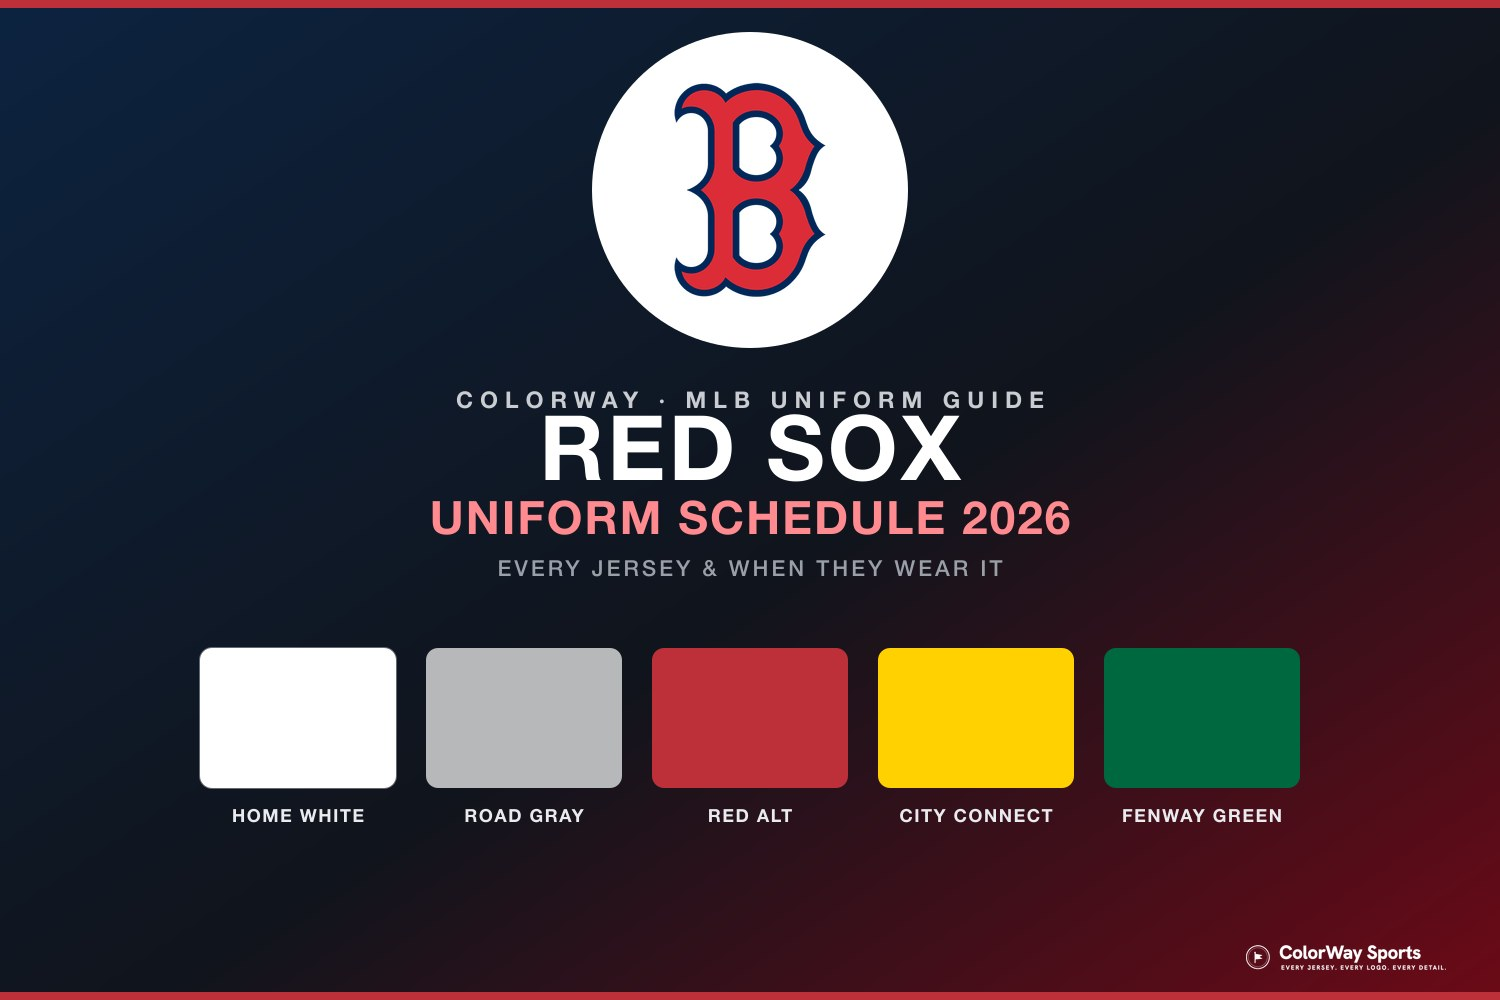
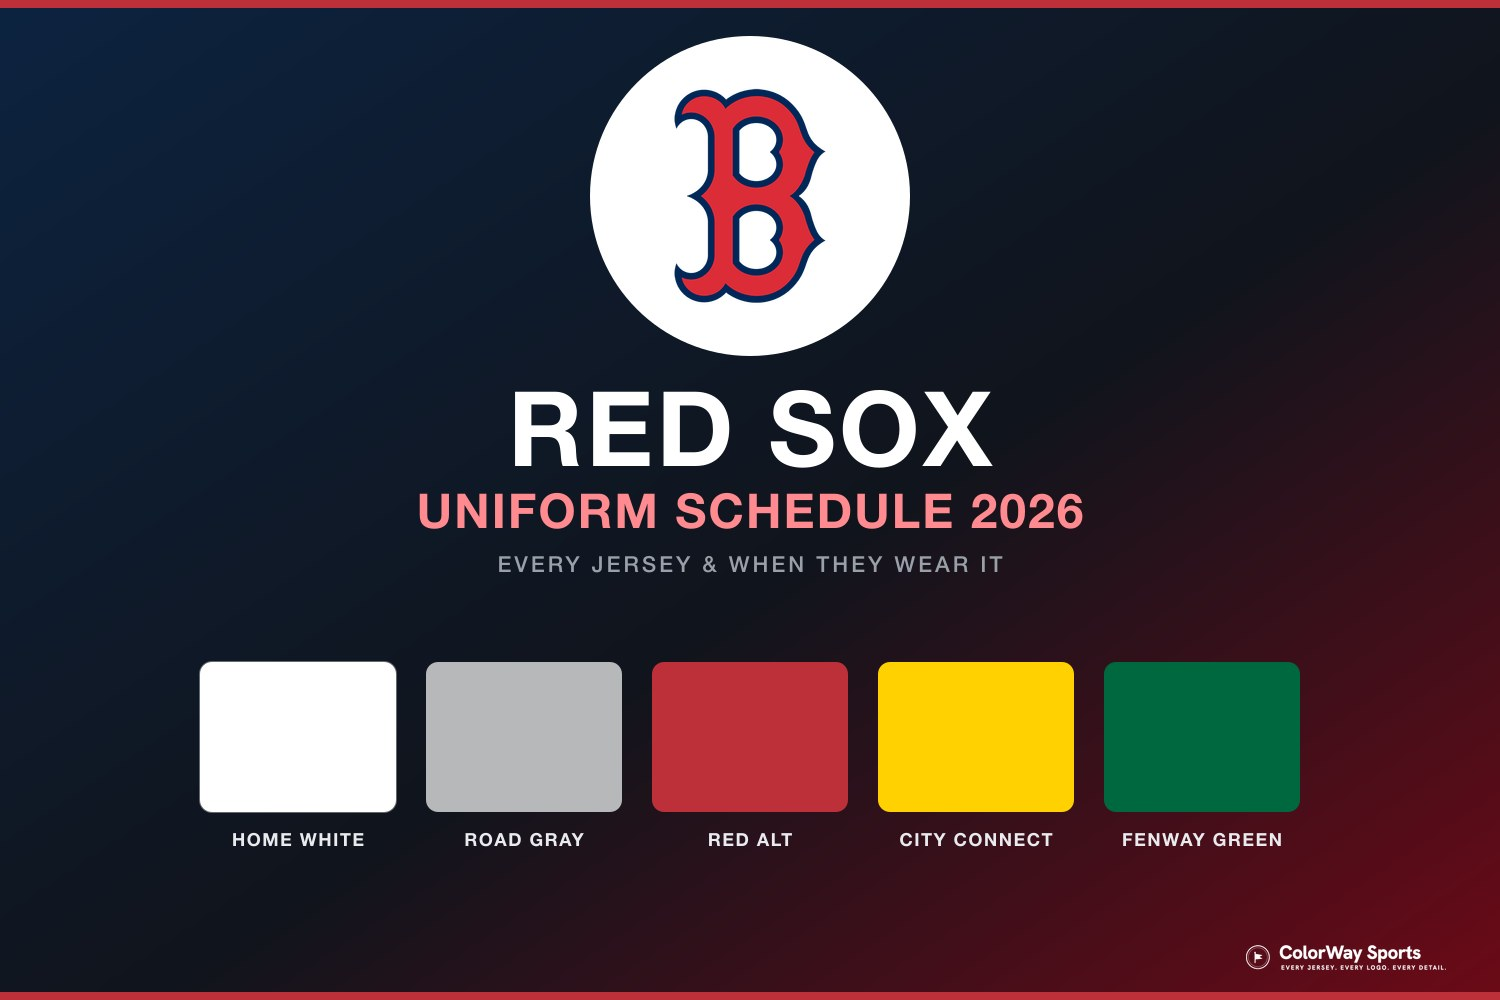
Red Sox post: remove cover-as-hero, fix tweet order, punch up SEO/clickbait, cover spacing
- drop the duplicated cover image used as an in-post hero
- swap mismatched jersey tweets: Home<->Road and Yellow CC<->Fenway Green (per Jake)
- clickbait/SEO title + intro hook (retired navy, record-breaking Fenway Green) + extra City Connect FAQ
- rebuild cover with cleaner vertical spacing (drop cramped kicker line)

diff --git a/content/posts/red-sox-uniform-schedule-2026.md b/content/posts/red-sox-uniform-schedule-2026.md
@@ -1,8 +1,8 @@
 ---
-title: "Red Sox Uniform Schedule 2026: Every Jersey and When They Wear It"
+title: "Red Sox Uniform Schedule 2026: Every Jersey, When They Wear It, and the One That's Gone"
 category: MLB
 date: "2026-06-23"
-excerpt: "The Boston Red Sox carry five uniforms in 2026 — home whites, road grays, the red alternate, the yellow Marathon City Connect, and the new Fenway Green. Here's every jersey, when they wear it, and why the navy alternate is gone."
+excerpt: "The complete Boston Red Sox uniform schedule for 2026 — all five jerseys and exactly when they wear each one, from the home whites and road grays to the red alternate and both City Connects (including the Fenway Green, the best-selling City Connect in MLB history). Plus the alternate the Red Sox quietly retired."
 gradient: "linear-gradient(135deg, #BD3039 0%, #0C2340 50%, #BD3039 100%)"
 coverImage: "/images/posts/red-sox-uniform-schedule-2026/cover.jpg"
 coverImagePosition: "center center"
@@ -12,9 +12,7 @@ teams:
   - boston-red-sox
 ---
 
-<img src="/images/posts/red-sox-uniform-schedule-2026/cover.jpg" alt="Boston Red Sox 2026 uniform schedule cover showing the five uniform colors — home white, road gray, red alternate, yellow City Connect, and Fenway Green City Connect" style="width: 100%; border-radius: 10px;" />
-
-The Boston Red Sox run five uniforms in 2026, and while their rotation isn't as rigidly scheduled as a team like the Phillies, there's a clear logic to it once you know the anchors. Two of those five are City Connects — the yellow "Marathon" kit and the brand-new Fenway Green — and they own two specific days of the week. Here's the full Red Sox closet for 2026 and exactly when each jersey comes out.
+The Boston Red Sox quietly retired one of their jerseys for 2026 — and the City Connect they leaned on instead is now the best-selling in MLB history. Here's the complete Red Sox uniform schedule for 2026: all five jerseys, and exactly when they wear each one. The rotation isn't as rigidly scheduled as a team like the Phillies, but there's a clear logic once you know the anchors — two of the five are City Connects (the yellow "Marathon" kit and the brand-new Fenway Green), and each one owns a specific night of the week.
 
 ## Sample Home-and-Road Week at a Glance
 
@@ -76,7 +74,7 @@ The Red Sox carry five uniforms in 2026, and the lineup is the same five they se
 The home white is Boston's bread and butter: a clean white jersey with red piping, "RED SOX" arched across the chest in red script outlined in blue, and red numbers on the back with no player names — a classic touch the Red Sox keep at home. It's worn for the bulk of the homestand, essentially every home game that isn't a Friday or a Saturday (those belong to the two City Connects). For 2026 the lettering was re-spaced after the original drew complaints for crowding the buttons, and the fix was ready for Opening Day. It's understated and timeless, exactly what a home flannel at Fenway should be.
 
 <div style="margin: 1.25em 0;">
-<blockquote class="twitter-tweet" data-dnt="true"><a href="https://twitter.com/RedSox/status/2068562622803316758"></a></blockquote>
+<blockquote class="twitter-tweet" data-dnt="true"><a href="https://twitter.com/RedSox/status/2067311217589252309"></a></blockquote>
 </div>
 
 ## Road Grays (Most Away Games)
@@ -84,7 +82,7 @@ The home white is Boston's bread and butter: a clean white jersey with red pipin
 On the road, Boston wears the standard gray set with "BOSTON" across the chest in red — the road jerseys switched to red lettering back in 2014 to match the home typeface — with player names on the back and the navy cap. It's the default for most away games, the workmanlike road look that lets the home team's colors be the star. Nothing flashy, and it doesn't need to be.
 
 <div style="margin: 1.25em 0;">
-<blockquote class="twitter-tweet" data-dnt="true"><a href="https://twitter.com/RedSox/status/2067311217589252309"></a></blockquote>
+<blockquote class="twitter-tweet" data-dnt="true"><a href="https://twitter.com/RedSox/status/2068562622803316758"></a></blockquote>
 </div>
 
 ## Red Alternate (Friday Road Games)
@@ -100,7 +98,7 @@ The red alternate is the one that moved. A red jersey worn with white pants, "RE
 Boston's original City Connect, introduced in 2021, is one of the most beloved alternates in the sport. The yellow-and-blue color scheme is pulled straight from the Boston Marathon: a bright yellow jersey with "BOSTON" stenciled in light blue, light-blue sleeve striping, a light-blue cap, and a "617" race-bib patch on the sleeve honoring the city's area code. Since 2024 it's been the every-Saturday home uniform, and it remains the team's signature kit for Patriots' Day and Marathon weekend in April. It's vivid, civic, and completely Boston — one of the best City Connects MLB ever approved.
 
 <div style="margin: 1.25em 0;">
-<blockquote class="twitter-tweet" data-dnt="true"><a href="https://twitter.com/RedSox/status/2065621943991062566"></a></blockquote>
+<blockquote class="twitter-tweet" data-dnt="true"><a href="https://twitter.com/RedSox/status/2065935525651821033"></a></blockquote>
 </div>
 
 ## Fenway Green — The Green Monster City Connect (Friday Home Games)
@@ -108,7 +106,7 @@ Boston's original City Connect, introduced in 2021, is one of the most beloved a
 The newest piece, unveiled in 2025, leans all the way into Fenway Park itself. The green jersey is inspired by the Green Monster, down to a font that matches the wall's hand-operated scoreboard numerals, yellow numbers that echo the scoreboard's current-inning run total, "1912" on the collar for the year Fenway opened, and a green cap with a gray "B." It reportedly became the best-selling City Connect in MLB history, and it now owns Friday night home games. Tying the loudest, most place-specific jersey in the closet to a guaranteed weekly slot is a smart move — fans know exactly when to come see it.
 
 <div style="margin: 1.25em 0;">
-<blockquote class="twitter-tweet" data-dnt="true"><a href="https://twitter.com/RedSox/status/2065935525651821033"></a></blockquote>
+<blockquote class="twitter-tweet" data-dnt="true"><a href="https://twitter.com/RedSox/status/2065621943991062566"></a></blockquote>
 </div>
 
 ## What Happened to the Navy Alternate?
@@ -128,11 +126,14 @@ One more constant: all five jerseys carry the **MassMutual** advertising patch o
 **How many uniforms do the Red Sox have in 2026?**
 Five: the home white, the road gray, the red alternate, the yellow "Marathon" City Connect, and the new Fenway Green City Connect. The old navy alternate was retired after the 2024 season.
 
+**What are the Red Sox City Connect uniforms for 2026?**
+The Red Sox have two. The original yellow "Marathon" City Connect (2021), inspired by the Boston Marathon, is worn on Saturday home games. The newer Fenway Green City Connect (2025), modeled on the Green Monster, is worn on Friday home games and reportedly became the best-selling City Connect in MLB history.
+
 **When do the Red Sox wear the yellow City Connect uniform?**
 The yellow Marathon-inspired City Connect is Boston's every-Saturday home jersey, and it's also the kit the team leans on for Patriots' Day and Boston Marathon weekend in April.
 
 **What is the green Red Sox uniform?**
-That's the Fenway Green City Connect, unveiled in 2025 and inspired by the Green Monster — scoreboard-style numerals, yellow numbers, and "1912" on the collar. It's worn for Friday night home games and reportedly became the best-selling City Connect in MLB history.
+That's the Fenway Green City Connect, unveiled in 2025 and inspired by the Green Monster — scoreboard-style numerals, yellow numbers, and "1912" on the collar. It's worn for Friday night home games.
 
 **When do the Red Sox wear the red jersey?**
 Since 2025, the red alternate has been Boston's Friday road uniform — the first time since 1933 the club has worn "RED SOX" instead of "BOSTON" on the road.
